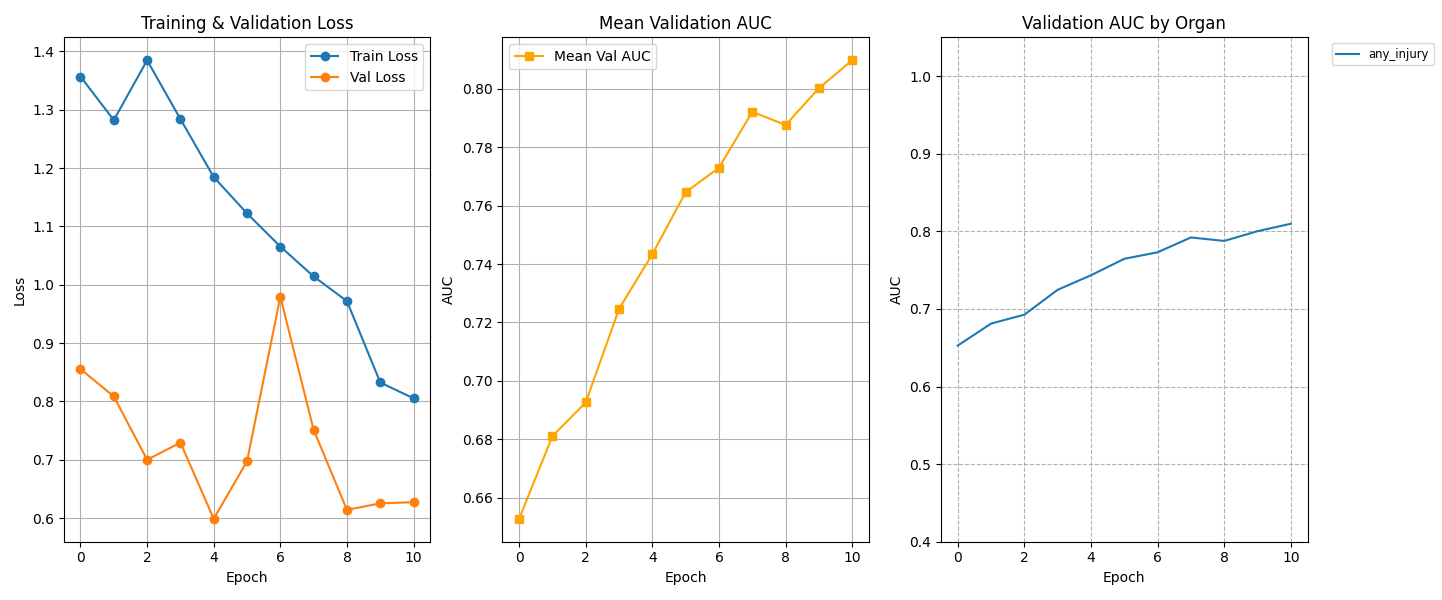
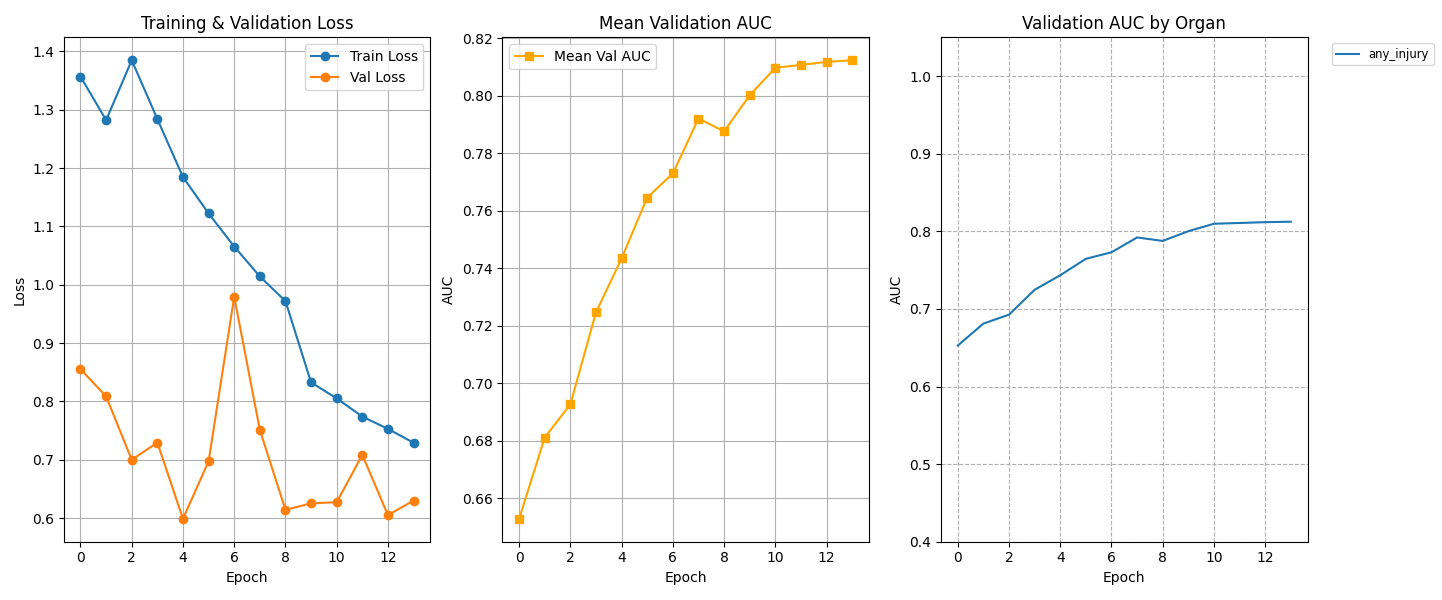
v11 버전 최종 확인

diff --git a/assets/버전별 수정 사항.md b/assets/버전별 수정 사항.md
@@ -170,3 +170,8 @@
         - README.md를 정리하다 v1이 가장 auc가 잘나와서 224 크기로 처음에 진행했던 코드로 다시 동작
         - v10까지 결과중 가장 잘나옴 0.775를 넘겼네?
         ![alt text](ct_result_history_10.png)
+
+    - 학습 코드 11 : ct-convnext-tiny-s224_11.ipynb
+        - 버전 10에서 부상만 가지고 판단하는 학습 진행
+        - 병명이까지 파단이 아닌 부상이 있다 없다면 체크
+        - 부상이 있다/없다 만 판단을 하기 때문에 0.8을 넘겼다?
